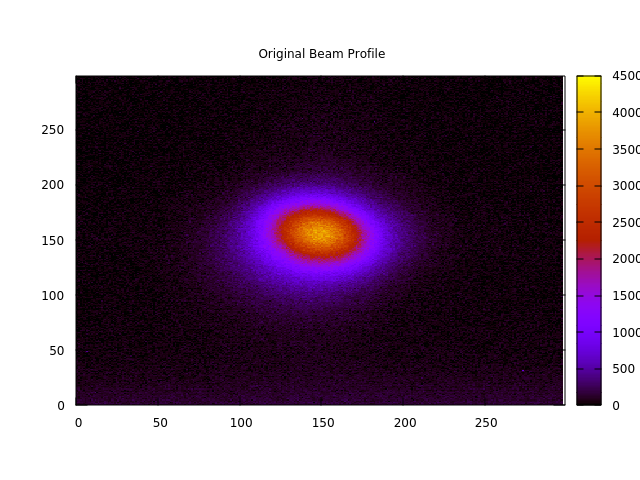
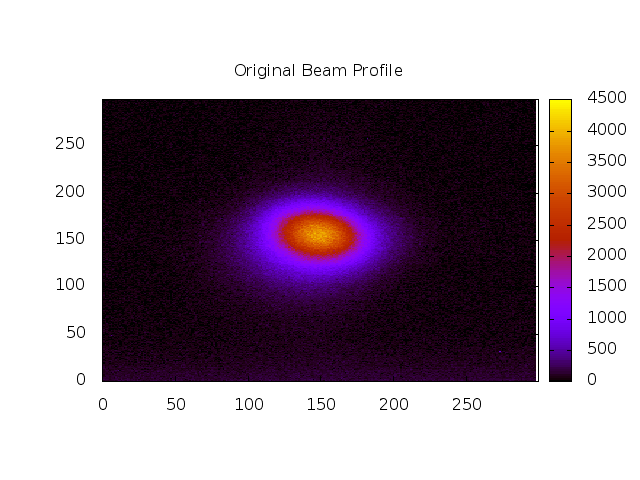
progress on fixing up Makefile x and y output issue progress on getting smooth option working

diff --git a/fit_gaussian.c b/fit_gaussian.c
@@ -1,27 +1,52 @@
+/*
+ * Program to test Gaussian fitting of waveform generated by EPICS and
+ * Area Detector. The data has been saved to file, data.csv of a 299 x 299
+ * beam projection from BL3.1 diagnostic beamline.
+ *
+ * The fit can also smooth the data first using gaussian smoothing kernal.
+ */
+
+#include <string.h>
+#include <unistd.h>
+#include <ctype.h>
 #include <stdint.h>
 #include <stdio.h>
 #include <stdlib.h>
 #include <gsl/gsl_vector.h>
 #include <gsl/gsl_blas.h>
 #include <gsl/gsl_multifit_nlinear.h>
+#include <gsl/gsl_filter.h>
 #include "fit_tools.h"
 
-int main(){
+int main(int argc, char **argv){
     // do not stop program if error occurs
     //gsl_set_error_handler_off();
+
+	int smooth_opt = 1;
+	int c;
+	while ((c = getopt (argc, argv, "s:")) != -1)
+		switch (c)
+		{
+		case 's':
+			smooth_opt = 1;
+			break;
+		default:
+			abort ();
+		}
 
     // need array of vectors to create a square
     gsl_vector* data_sq[DIM];
     load_data_from_file(data_sq);
-    // alloc the workspace
     gsl_filter_gaussian_workspace *gauss_p = gsl_filter_gaussian_alloc(K_SIZE);
 
-    smooth_data_sq(data_sq, gauss_p);
-    char *sm_image_outfile = "smoothed_image.txt";
-    save_smoothed_image(sm_image_outfile, data_sq);
+    if (smooth_opt == 1) {
+        smooth_data_sq(data_sq, gauss_p);
+        char *sm_image_outfile = "smoothed_image.txt";
+        save_smoothed_image(sm_image_outfile, data_sq);
+    }
 
     // Mean of rows and cols
-    // final target, 1d aggregated x and y"
+    //  X dim
     gsl_vector *mux = gsl_vector_alloc(DIM);
     int axis = 0;
     average_dim(data_sq, mux, axis);
@@ -66,11 +91,11 @@ int main(){
 
     gsl_vector_free(mux);
     gsl_vector_free(muy);
-    gsl_filter_gaussian_free(gauss_p);
     free(fpx);
     free(fpy);
     free(fit_data_x);
     free(fit_data_y);
+    gsl_filter_gaussian_free(gauss_p);
 
     return 0;
 }

diff --git a/fit_tools.c b/fit_tools.c
@@ -228,8 +228,8 @@ int fit(gsl_vector *data_to_fit, FinalPos *fp, Data *fit_data, int axis) {
 
     /* define function to be minimized */
     fdf.f = func_f;
-    fdf.df = NULL;  /* set to NULL for finite-difference Jacobian */
-    //fdf.df = func_df;
+    //fdf.df = NULL;  /* set to NULL for finite-difference Jacobian */
+    fdf.df = func_df;
     fdf.fvv = NULL; /* not using geodesic acceleration */
     fdf.n = n;
     fdf.p = p;
